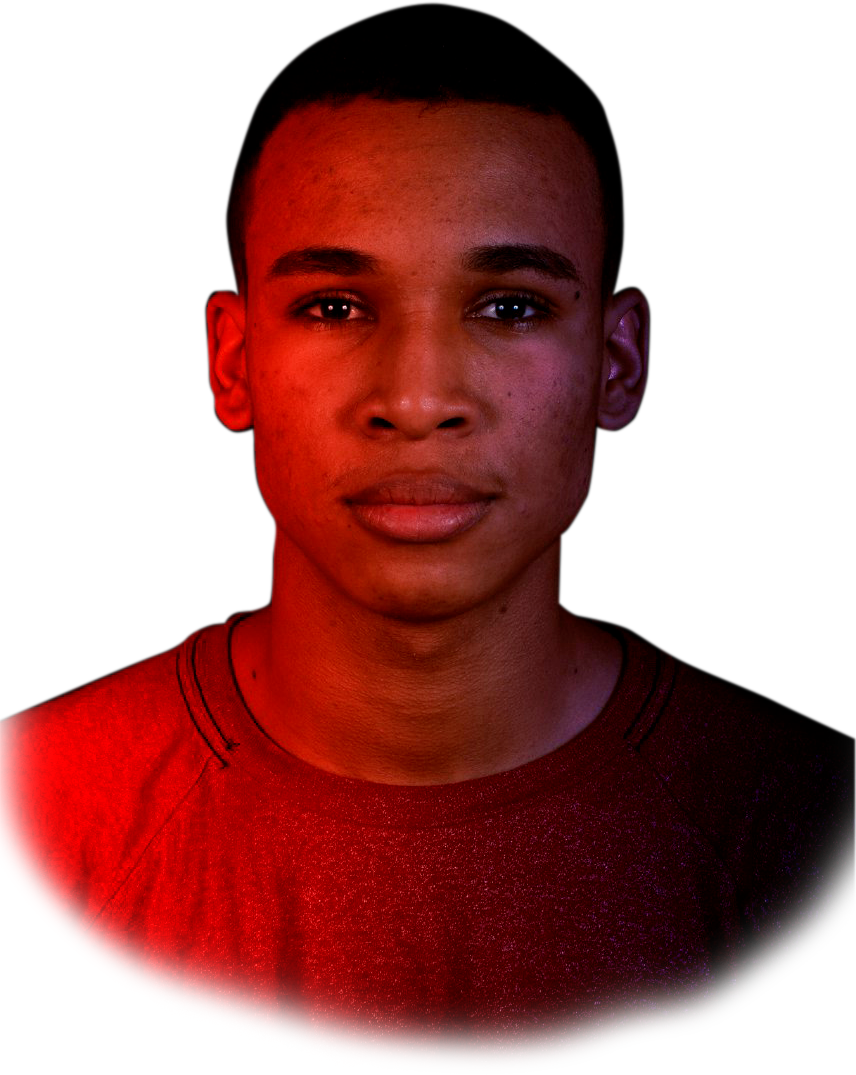
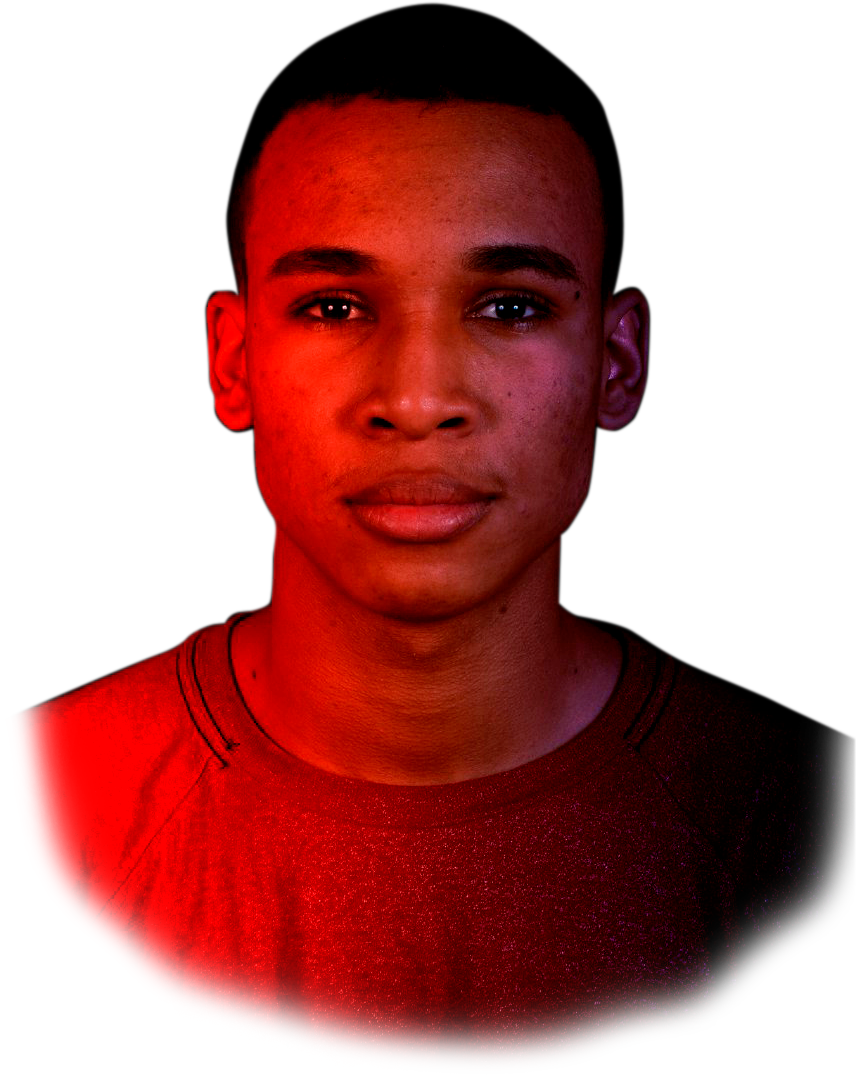
ajustes image

Changed region(s): [[0.0, 0.0921, 0.5467, 0.9516], [0.8201, 0.6753, 1.0, 0.9209]]

diff --git a/src/components/Section1/styles.ts b/src/components/Section1/styles.ts
@@ -76,7 +76,7 @@ export const Img = styled.div`
     margin-left: 1rem;
 
     img {
-        width: 30rem;
+        width: 34rem;
 
         @media(max-width: 1000px) {
             margin-top: 3rem;
